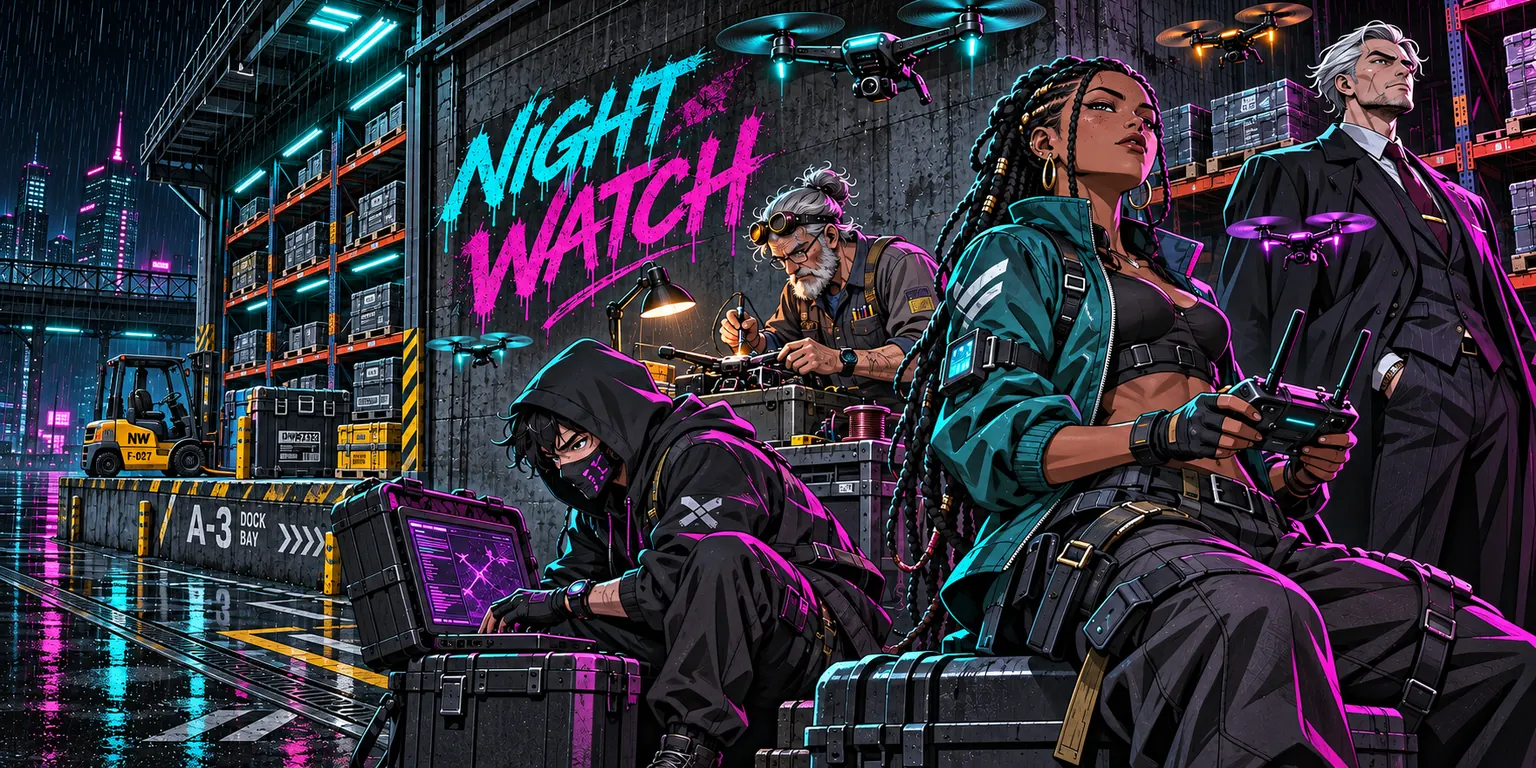
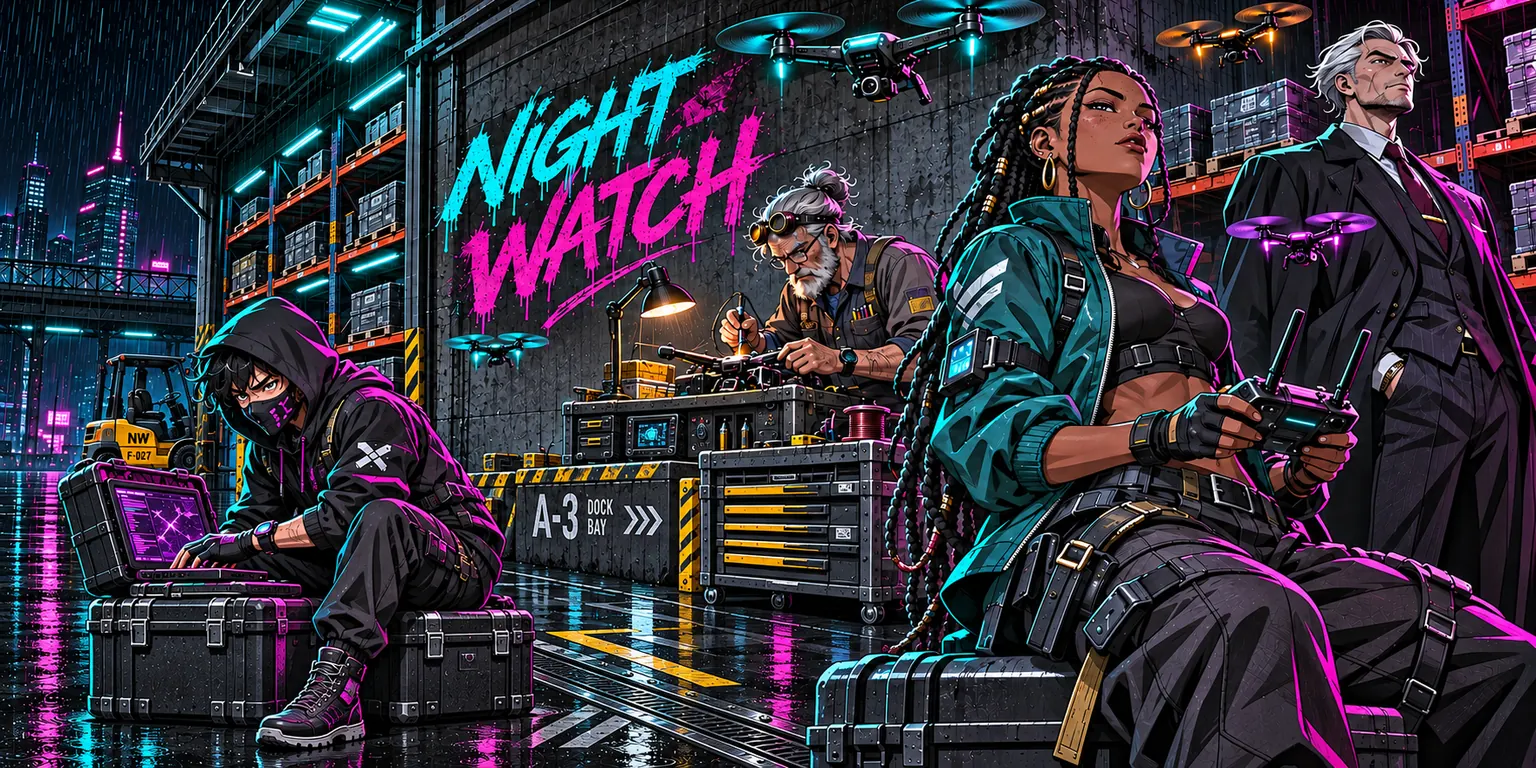
Add analog phone joystick and story-gated practice

diff --git a/game.js b/game.js
@@ -89,12 +89,16 @@ const ctx = canvas.getContext('2d');
 const overlay = get('.overlay');
 const action = get('#action');
 const keyboard = new Set();
-const pointers = new Map();
-const touchButtons = [...document.querySelectorAll('[data-key]')];
+const brakePointers = new Set();
+const stick = {pointer:null,x:0,y:0};
 const courseButtons = courses.map((mission,index) => {
   const button = document.createElement('button');
   button.textContent = mission.name;
-  button.addEventListener('click',() => {reset(index); showPage('flight');});
+  button.addEventListener('click',() => {
+    if (!canPractice(index)) return;
+    reset(index);
+    showPage('flight');
+  });
   get('#mission-list').append(button);
   return button;
 });
@@ -265,9 +269,18 @@ function showPage(page) {
     renderMissionPage();
   }
 }
+function canPractice(index) {
+  return progress.cleared.includes(index) || index === (progress.campaignNext || 0);
+}
 function renderMissionPage() {
   const last = Math.ceil(courses.length/missionsPerPage)-1;
-  courseButtons.forEach((button,index) => button.hidden = Math.floor(index/missionsPerPage) !== missionPage);
+  courseButtons.forEach((button,index) => {
+    button.hidden = Math.floor(index/missionsPerPage) !== missionPage;
+    button.textContent = String(index+1).padStart(2,'0') + '  ' + courses[index].name + (progress.cleared.includes(index) ? '  ✓' : '');
+    button.disabled = !canPractice(index);
+    if (button.disabled) button.textContent += ' · Locked';
+    button.setAttribute('aria-pressed',index === courseIndex);
+  });
   get('#missionPage').textContent = (missionPage+1) + ' / ' + (last+1);
   get('#prevMission').disabled = missionPage === 0;
   get('#nextMission').disabled = missionPage === last;
@@ -301,10 +314,6 @@ function renderHangar() {
   get('#loadoutName').textContent = airframe.name;
   get('#loadoutStats').textContent = stats.seconds + ' s battery · ' + Math.round(stats.thrust) + ' thrust · ' + stats.brake.toFixed(1) + ' braking';
   get('#purchaseStatus').textContent = active ? 'Finish or restart the mission to change your loadout.' : '';
-  courseButtons.forEach((button,index) => {
-    button.textContent = String(index+1).padStart(2,'0') + '  ' + courses[index].name + (progress.cleared.includes(index) ? '  ✓' : '');
-    button.setAttribute('aria-pressed',index === courseIndex);
-  });
   frameButtons.forEach((button,index) => {
     const frame = fleet[index];
     const selected = index === progress.selected;
@@ -330,8 +339,9 @@ function storedBest() {
 }
 function clearInputs() {
   keyboard.clear();
-  pointers.clear();
-  touchButtons.forEach(button => button.classList.remove('held'));
+  brakePointers.clear();
+  centerJoystick();
+  brakeButton.classList.remove('held');
 }
 function menu(title, message, label, callback) {
   get('#headline').textContent = title;
@@ -414,17 +424,16 @@ function togglePause() {
     menu('Flight paused','Your battery timer is paused.','Resume',togglePause);
   }
 }
-const touchPressed = key => [...pointers.values()].some(input => input.includes(key));
-const pressed = (...keys) => keys.some(key => keyboard.has(key) || touchPressed(key));
+const pressed = (...keys) => keys.some(key => keyboard.has(key));
 const clamp = (value,min,max) => Math.max(min,Math.min(value,max));
 // Flight physics. Steering changes velocity, so the drone drifts after release.
 function update(dt) {
   elapsed += dt;
   jam = Math.max(0,jam-dt);
-  const dx = +pressed('ArrowRight','d') - +pressed('ArrowLeft','a');
-  const dy = +pressed('ArrowDown','s') - +pressed('ArrowUp','w');
+  const dx = clamp(+pressed('ArrowRight','d') - +pressed('ArrowLeft','a') + stick.x,-1,1);
+  const dy = clamp(+pressed('ArrowDown','s') - +pressed('ArrowUp','w') + stick.y,-1,1);
   const diagonal = Math.max(1,Math.hypot(dx,dy));
-  const braking = pressed(' ');
+  const braking = pressed(' ') || brakePointers.size > 0;
   if (braking && !wasBraking) sound('brake');
   wasBraking = braking;
   flightAudio(Math.hypot(drone.vx,drone.vy),Boolean(dx || dy),braking,true);
@@ -615,11 +624,15 @@ function warehouseProp(ctx,w,h,type) {
     ctx.translate(-length/2,-width/2);
     for (const x of [length*.19,length*.58]) for (const y of [width*.22,width*.67])
       surfacePanel(ctx,x,y,length*.14,width*.15,'#4a515a','#10151e');
-    surfacePanel(ctx,length*.16,width*.27,length*.58,width*.47,'#ffc46e','#8f4b27',5);
+    surfacePanel(ctx,length*.16,width*.27,length*.58,width*.47,'#d38d47','#5e4034',5);
     surfacePanel(ctx,length*.36,width*.32,length*.27,width*.36,'#4b6673','#1a2733',3);
     ctx.lineWidth = 2;
-    ctx.strokeStyle = '#f1c583';
+    ctx.strokeStyle = '#c59b70';
     ctx.strokeRect(length*.36,width*.32,length*.27,width*.36);
+    surfacePanel(ctx,length*.21,width*.36,length*.11,width*.25,'#43505b','#21292d',3);
+    ctx.fillStyle = '#fce1a2';
+    ctx.fillRect(length*.685,width*.31,length*.025,width*.06);
+    ctx.fillRect(length*.685,width*.63,length*.025,width*.06);
     surfacePanel(ctx,length*.71,width*.24,length*.07,width*.55,'#8c9fa9','#343b44');
     for (const y of [width*.34,width*.61]) surfacePanel(ctx,length*.76,y,length*.19,width*.055,'#d2d9dd','#616f77',1);
     ctx.restore();
@@ -712,16 +725,29 @@ function structure(ctx,[x,y,w,h,footprint],art = footprint) {
     return;
   }
   if (type === 'tank') {
-    const tank = Math.min(w*.32,h*.21);
+    const tank = Math.min(w*.30,h*.19);
+    const pipe = Math.max(4,w*.06);
+    surfacePanel(ctx,w/2-pipe/2,h*.14,pipe,h*.72,'#94a0a4','#353e47',3);
     for (const cy of [h*.27,h*.73]) {
+      const metal = ctx.createLinearGradient(w/2-tank,cy-tank,w/2+tank,cy+tank);
+      metal.addColorStop(0,'#bcc5c5');
+      metal.addColorStop(.48,'#606d73');
+      metal.addColorStop(1,'#24323c');
       circle(w/2,cy,tank,ctx);
-      ctx.fillStyle = '#77858a';
+      ctx.fillStyle = metal;
       ctx.fill();
+      ctx.strokeStyle = '#b7d1cf99';
       ctx.stroke();
       circle(w/2,cy,tank*.68,ctx);
+      ctx.strokeStyle = '#2d4950';
       ctx.stroke();
-      ctx.fillStyle = '#233137';
-      ctx.fillRect(w/2-4,cy-7,8,14);
+      surfacePanel(ctx,w/2-tank*.30,cy-tank*.30,tank*.60,tank*.60,'#dce1d8','#425964',2);
+      for (let i=0;i<6;i++) {
+        const angle = i*Math.PI/3;
+        circle(w/2+Math.cos(angle)*tank*.84,cy+Math.sin(angle)*tank*.84,1.3,ctx);
+        ctx.fillStyle = '#e5ded0';
+        ctx.fill();
+      }
     }
   } else if (type === 'water') {
     reservoir(ctx,w,h);
@@ -768,7 +794,7 @@ function structure(ctx,[x,y,w,h,footprint],art = footprint) {
   if (type === 'cargo' || type === 'hangar' || type === 'train') {
     sprayTag(ctx,type === 'train' ? 'AFTER' : type === 'hangar' ? 'NITE' : 'VOID',w/2,h*.32,Math.min(27,w*.23),type === 'cargo' ? '#e88ccb' : '#cfef78');
   }
-  const sprite = {cargo:3,train:4,tank:5}[type];
+  const sprite = {cargo:3,train:4}[type];
   if (sprite !== undefined) {
     const inset = 5;
     if (w > h) {
@@ -1128,41 +1154,56 @@ window.addEventListener('blur',() => {
   clearInputs();
   if (state === 'flying') togglePause();
 });
-const dpad = get('.dpad');
+const joystick = get('.joystick');
 const brakeButton = get('#brake');
-function showTouchInput() {
-  touchButtons.forEach(button => button.classList.toggle('held',touchPressed(button.dataset.key)));
+function placeKnob(x,y) {
+  joystick.style.setProperty('--stick-x',x+'px');
+  joystick.style.setProperty('--stick-y',y+'px');
+}
+function centerJoystick() {
+  stick.pointer = null;
+  stick.x = stick.y = 0;
+  placeKnob(0,0);
 }
 function steerByTouch(event) {
-  const bounds = dpad.getBoundingClientRect();
-  const x = (event.clientX-bounds.left)/bounds.width-.5;
-  const y = (event.clientY-bounds.top)/bounds.height-.5;
-  const directions = [];
-  if (Math.abs(x) >= .13 && Math.abs(x) >= Math.abs(y)*.55) directions.push(x < 0 ? 'ArrowLeft' : 'ArrowRight');
-  if (Math.abs(y) >= .13 && Math.abs(y) >= Math.abs(x)*.55) directions.push(y < 0 ? 'ArrowUp' : 'ArrowDown');
-  pointers.set(event.pointerId,directions);
-  showTouchInput();
+  const bounds = joystick.getBoundingClientRect();
+  const reach = bounds.width*.32;
+  const x = event.clientX-bounds.left-bounds.width/2;
+  const y = event.clientY-bounds.top-bounds.height/2;
+  const distance = Math.hypot(x,y);
+  const push = Math.min(1,distance/reach);
+  const directionX = x/(distance || 1);
+  const directionY = y/(distance || 1);
+  const power = Math.max(0,(push-.16)/.84);
+  stick.x = directionX*power;
+  stick.y = directionY*power;
+  placeKnob(directionX*push*reach,directionY*push*reach);
 }
-dpad.addEventListener('pointermove',event => {
-  if (pointers.has(event.pointerId) && dpad.hasPointerCapture(event.pointerId)) steerByTouch(event);
+joystick.addEventListener('pointerdown',event => {
+  if (state !== 'flying' || event.button !== 0 || stick.pointer !== null) return;
+  event.preventDefault();
+  joystick.setPointerCapture(event.pointerId);
+  stick.pointer = event.pointerId;
+  steerByTouch(event);
 });
-for (const control of [dpad,brakeButton]) {
-  control.addEventListener('pointerdown',event => {
-    if (state !== 'flying' || event.button !== 0) return;
-    event.preventDefault();
-    control.setPointerCapture(event.pointerId);
-    if (control === dpad) steerByTouch(event);
-    else {
-      pointers.set(event.pointerId,[' ']);
-      showTouchInput();
-    }
+joystick.addEventListener('pointermove',event => {
+  if (event.pointerId === stick.pointer) steerByTouch(event);
+});
+brakeButton.addEventListener('pointerdown',event => {
+  if (state !== 'flying' || event.button !== 0) return;
+  event.preventDefault();
+  brakeButton.setPointerCapture(event.pointerId);
+  brakePointers.add(event.pointerId);
+  brakeButton.classList.add('held');
+});
+for (const type of ['pointerup','pointercancel','lostpointercapture']) {
+  joystick.addEventListener(type,event => {
+    if (event.pointerId === stick.pointer) centerJoystick();
   });
-  for (const type of ['pointerup','pointercancel','lostpointercapture']) {
-    control.addEventListener(type,event => {
-      pointers.delete(event.pointerId);
-      showTouchInput();
-    });
-  }
+  brakeButton.addEventListener(type,event => {
+    brakePointers.delete(event.pointerId);
+    brakeButton.classList.toggle('held',brakePointers.size > 0);
+  });
 }
 document.addEventListener('visibilitychange',() => {
   if (!document.hidden) return;

diff --git a/styles.css b/styles.css
@@ -102,7 +102,6 @@ body{
   background:linear-gradient(90deg,#100d20f5 5%,#131127a8 52%,#120f245c),
     url(assets/night-watch-crew.webp) center top / cover fixed,#100d20;
 }
-body::before{content:"";pointer-events:none;position:fixed;inset:0;z-index:-1;background:linear-gradient(180deg,transparent,#100d20 93%)}
 #page-story,.game-menu{background-color:#17172def}
 #page-story{box-shadow:0 12px 44px #09081580}
 #field{box-shadow:0 12px 38px #070713a0}
@@ -120,13 +119,6 @@ body{background-image:linear-gradient(90deg,#100d2082,#1311272d 60%,#120f2426),u
 
 /* The thumb deck stays separate from the canvas so fingers never cover the course. */
 .help .keys{display:flex;align-items:center;gap:12px;flex-wrap:nowrap}
-.dpad{--key:36px;display:grid;grid-template:repeat(3,var(--key))/repeat(3,var(--key));gap:3px;touch-action:none;user-select:none}
-.dpad button{height:var(--key);min-width:0;padding:0;border-radius:10px;font-size:17px}
-.dpad [data-key="ArrowUp"]{grid-area:1/2}
-.dpad [data-key="ArrowLeft"]{grid-area:2/1}
-.dpad [data-key="ArrowRight"]{grid-area:2/3}
-.dpad [data-key="ArrowDown"]{grid-area:3/2}
-.dpad::after{content:"";grid-area:2/2;border-radius:50%;background:#222842;border:1px solid #586287;pointer-events:none}
 .flight-actions{display:flex;align-items:center;gap:8px}
 .flight-actions button{min-width:48px;min-height:44px;touch-action:manipulation;text-align:center}
 .flight-actions button span{display:block;font-size:21px;line-height:1.05;margin-bottom:3px}
@@ -138,7 +130,7 @@ body{background-image:linear-gradient(90deg,#100d2082,#1311272d 60%,#120f2426),u
   main{padding-left:max(9px,env(safe-area-inset-left));padding-right:max(9px,env(safe-area-inset-right));padding-bottom:max(9px,env(safe-area-inset-bottom))}
   .keyboard-guide{display:none}
   .help .keys{width:100%;justify-content:space-between}
-  .dpad{--key:clamp(40px,12vw,52px)}
+  .joystick{--stick-size:clamp(110px,34vw,145px)}
   .flight-actions button{min-width:49px;min-height:50px;padding:5px;font-size:12px}
   #field{width:100%;min-width:0}
   #page-flight .hud{display:grid;grid-template-columns:repeat(3,minmax(0,1fr));gap:4px;font-size:11px}
@@ -155,8 +147,24 @@ body{background-image:linear-gradient(90deg,#100d2082,#1311272d 60%,#120f2426),u
   #field{grid-column:2;grid-row:2;width:min(100%,calc((100dvh - 103px) * 1.92));margin:auto}
   #raceLive{grid-column:2;grid-row:3;margin:3px 0;font-size:10px}
   .help,.help .keys{display:contents}
-  .dpad{--key:38px;grid-column:1;grid-row:2;justify-self:center}
+  .joystick{--stick-size:114px;grid-column:1;grid-row:2;justify-self:center}
   .flight-actions{grid-column:3;grid-row:2;flex-direction:column;gap:5px}
   .flight-actions button{width:64px;min-height:43px}
   .camera-legend{display:none}
 }
+
+.joystick{position:relative;flex:none;width:var(--stick-size,110px);height:var(--stick-size,110px);touch-action:none;user-select:none;border:2px solid #716591;border-radius:50%;background:radial-gradient(circle,#292744 38%,#181728 40%,#211b32 63%,#35244b 65%,#181625 69%);box-shadow:inset 0 0 15px #090718,0 4px 12px #100b22;color:#b6ddd8}
+.joystick span{position:absolute;pointer-events:none;font-size:12px;line-height:1}
+.stick-up{top:9px;left:50%;transform:translateX(-50%)}
+.stick-down{bottom:9px;left:50%;transform:translateX(-50%)}
+.stick-left{left:9px;top:50%;transform:translateY(-50%)}
+.stick-right{right:9px;top:50%;transform:translateY(-50%)}
+.stick-knob{left:50%;top:50%;width:39%;aspect-ratio:1;border:2px solid #a0faea;border-radius:50%;transform:translate(calc(-50% + var(--stick-x,0px)),calc(-50% + var(--stick-y,0px)));background:radial-gradient(circle at 34% 25%,#b8fbef,#478779 47%,#1b343c 76%);box-shadow:0 3px 7px #090717,inset 0 0 0 3px #12373787}
+.inspire-link{color:#afffef;font-size:12px;text-decoration:underline;text-underline-offset:.2em}
+.pages button{display:flex;align-items:center;justify-content:center;gap:6px;min-width:0;text-transform:uppercase;letter-spacing:.025em;background:linear-gradient(150deg,#34284c,#1a182b);border-color:#665082;text-shadow:0 1px #100d28}
+.pages button strong{font-family:Night Display,monospace;font-style:italic;font-weight:800}
+.pages button span{color:#e89ce5;font:bold 10px ui-monospace,monospace}
+.pages button[aria-pressed=true]{background:linear-gradient(145deg,#a0f9e9,#6ecbd8);text-shadow:none}
+.pages button[aria-pressed=true] span{color:#3b2a61}
+body{background-image:linear-gradient(90deg,#100d2020,#13112722 55%,#120f2417),url(assets/night-watch-crew.webp);background-position:left top}
+@media(max-width:650px){body{background-position:left top}.inspire-link{font-size:10px}.pages button{gap:2px;font-size:10px;flex-direction:column}.pages button span{font-size:9px}}

diff --git a/index.html b/index.html
@@ -6,10 +6,10 @@
 <link rel="stylesheet" href="styles.css">
 
 <main>
-<header><div><span class="kicker">Night Watch / Underground Surveillance</span><h1>HANGAR <em>HOVER</em></h1></div><div class="header-tools"><span id="campaign"></span><span id="wallet" aria-label="Credit balance"></span><button id="audio" aria-pressed="false">Sound off</button></div></header>
+<header><div><span class="kicker">Night Watch / Underground Surveillance</span><h1>HANGAR <em>HOVER</em></h1></div><div class="header-tools"><span id="campaign"></span><span id="wallet" aria-label="Credit balance"></span><a class="inspire-link" href="https://www.inspireclothing.art/" target="_blank" rel="noopener noreferrer">Inspire Clothing ↗</a><button id="audio" aria-pressed="false">Sound off</button></div></header>
 <nav class="pages" aria-label="Game pages">
-<button data-page="story" aria-pressed="true">01 Story</button><button data-page="missions" aria-pressed="false">02 Practice</button><button data-page="hangar" aria-pressed="false">03 Hangar</button><button data-page="upgrades" aria-pressed="false">04 Upgrades</button>
-<button data-page="race" aria-pressed="false">05 Race</button>
+<button data-page="story" aria-pressed="true"><span>01</span><strong>Story</strong></button><button data-page="missions" aria-pressed="false"><span>02</span><strong>Practice</strong></button><button data-page="hangar" aria-pressed="false"><span>03</span><strong>Hangar</strong></button><button data-page="upgrades" aria-pressed="false"><span>04</span><strong>Upgrades</strong></button>
+<button data-page="race" aria-pressed="false"><span>05</span><strong>Race</strong></button>
 </nav>
 <div class="layout"><section id="page-flight" hidden aria-label="Flight deck">
 <div class="hud"><span id="power">Battery <meter min="0" max="100" value="100"></meter> <b>100%</b></span><span id="gates"></span><span id="time"></span><span id="best"></span><span id="alert"></span><span id="jamStatus"></span></div>
@@ -22,11 +22,10 @@
 <div class="help">
   <span class="keyboard-guide">WASD / arrows to fly · Space to brake · C to jam · P to pause · R to restart</span>
   <div class="keys" aria-label="On-screen flight controls">
-    <div class="dpad" role="group" aria-label="Steer. Slide your thumb for diagonals.">
-      <button data-key="ArrowUp" aria-label="Fly up">▲</button>
-      <button data-key="ArrowLeft" aria-label="Fly left">◀</button>
-      <button data-key="ArrowRight" aria-label="Fly right">▶</button>
-      <button data-key="ArrowDown" aria-label="Fly down">▼</button>
+    <div class="joystick" role="group" aria-label="Steering joystick. Drag from the center to steer.">
+      <span class="stick-up" aria-hidden="true">▲</span><span class="stick-left" aria-hidden="true">◀</span>
+      <span class="stick-right" aria-hidden="true">▶</span><span class="stick-down" aria-hidden="true">▼</span>
+      <span class="stick-knob" aria-hidden="true"></span>
     </div>
     <div class="flight-actions" role="group" aria-label="Flight actions">
       <button id="jam" aria-label="Jam cameras"><span aria-hidden="true">ϟ</span>Jam</button>
